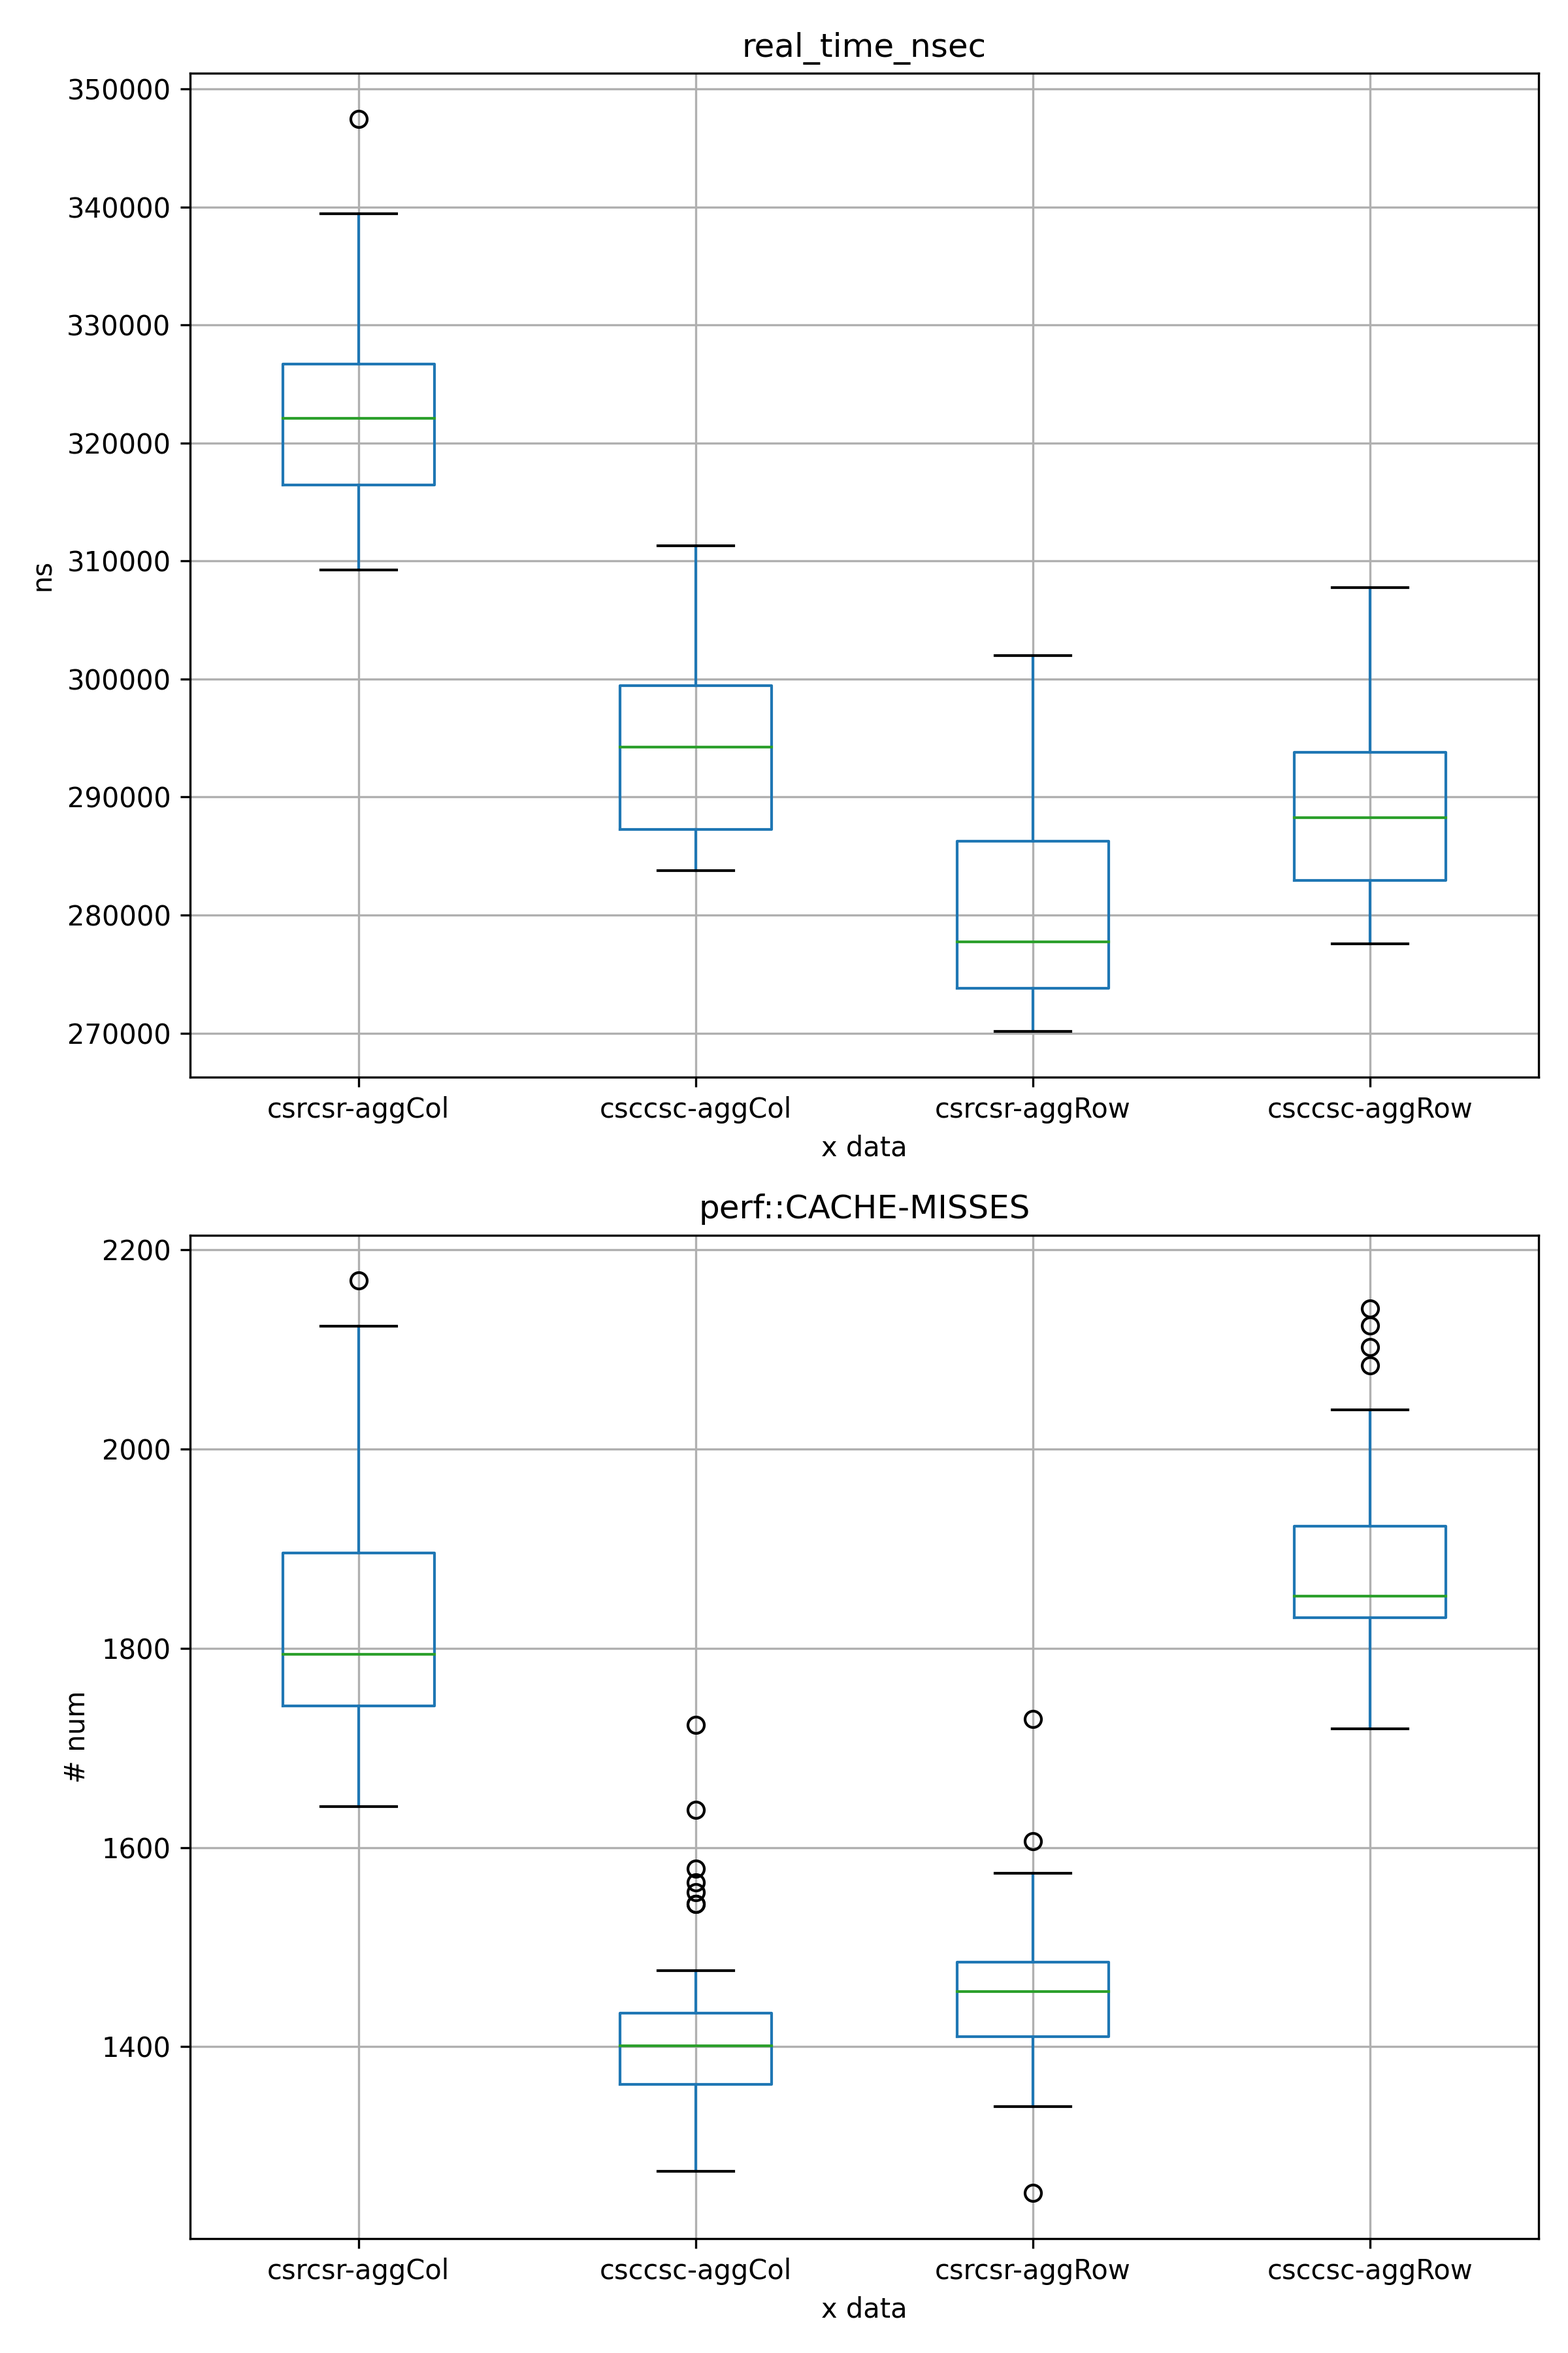
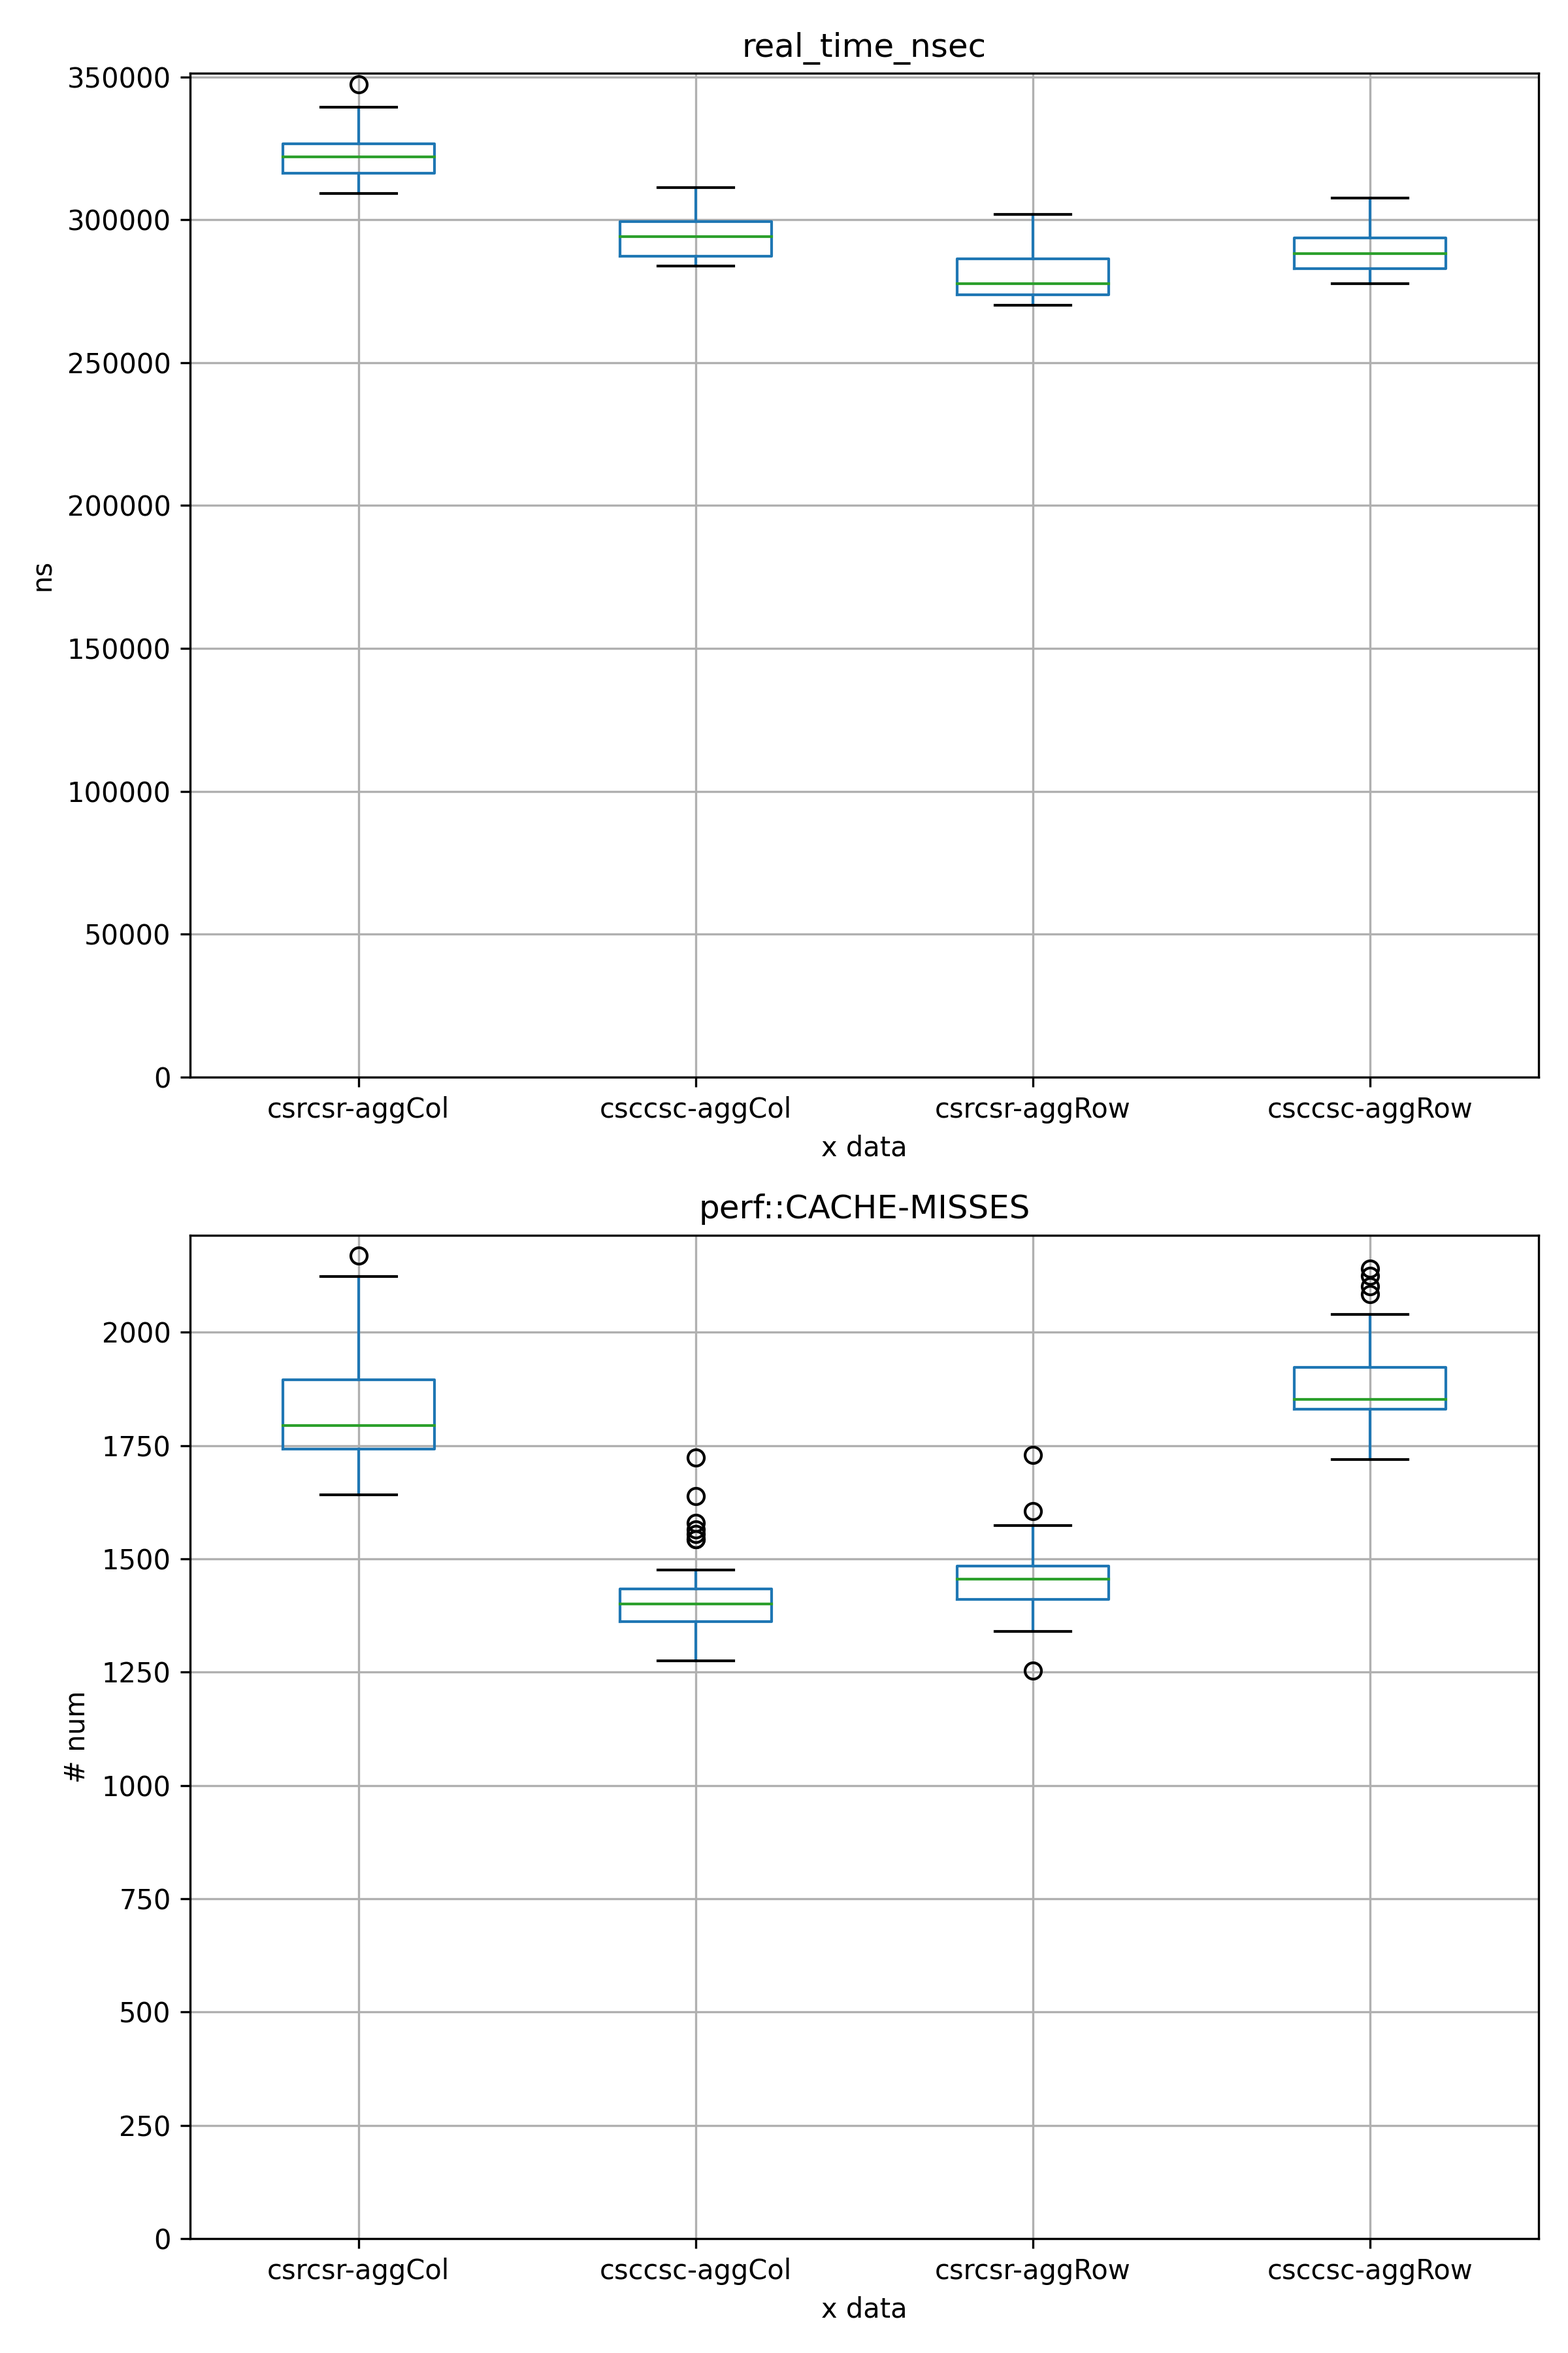
checkin

diff --git a/src/runtime/local/datastructures/CSRMatrix.h b/src/runtime/local/datastructures/CSRMatrix.h
@@ -392,15 +392,20 @@ public:
         size_t kk = 0;
         size_t numNewCols = cu - cl;
 
-        //CSRMatrix * sliced = DataObjectFactory::create<CSRMatrix>( this->numRows, numNewCols, this->maxNumNonZeros, false);
+        CSRMatrix * sliced = DataObjectFactory::create<CSRMatrix>( this->numRows, numNewCols, this->maxNumNonZeros, true);
 
         /*size_t toAllocate = maxNumNonZeros;
         if(maxNumNonZeros > (numRows*numNewCols))
             toAllocate = (numRows*numNewCols);*/
 
-        ValueType values[this->maxNumNonZeros] = {0}; 
-        size_t colIdxs[this->maxNumNonZeros] = {0};
-        size_t rowOffsets[this->numRowsAllocated] = {0};
+
+
+        //ValueType values[this->maxNumNonZeros] = {0}; 
+        //size_t colIdxs[this->maxNumNonZeros] = {0};
+        //size_t rowOffsets[this->numRowsAllocated] = {0};
+        ValueType *values   = sliced->values.get();
+        size_t *colIdxs     = sliced->colIdxs.get();
+        size_t *rowOffsets  = sliced->rowOffsets.get();
         
         for(size_t i = 0; i < this->numRowsAllocated; i++){
             std::cout << "I: " << i << std::endl;
@@ -408,7 +413,7 @@ public:
                 std::cout << "JJ: " << jj << std::endl;
                 if ((this->colIdxs.get()[jj] >= cl) && (this->colIdxs.get()[jj] < cu)) {
                     colIdxs[kk]     = this->colIdxs.get()[jj];
-                    rowOffsets[kk]  = this->values.get()[jj];
+                    values[kk]  = this->values.get()[jj];
                     kk++;
                 }
             }
@@ -417,7 +422,7 @@ public:
         }
         //CSRMatrix * sliced = DataObjectFactory::create<CSRMatrix>();
         
-        return nullptr;
+        return sliced;
     }
 
     CSRMatrix* slice(size_t rl, size_t ru, size_t cl, size_t cu) const override {

diff --git a/src/compiler/inference/SelectMatrixRepresentationsPass.cpp b/src/compiler/inference/SelectMatrixRepresentationsPass.cpp
@@ -53,7 +53,6 @@ public:
                         if(auto matTy = res.getType().dyn_cast<daphne::MatrixType>()) {
                             const double sparsity = matTy.getSparsity();
                             // TODO: set threshold by user
-
                             auto fileLoc = op->getLoc().dyn_cast<mlir::FileLineColLoc>();
                             int isOdd = fileLoc.getLine() % 2;
 
@@ -220,8 +219,9 @@ public:
 
     static bool returnsKnownProperties(Operation *op) {
         return llvm::any_of(op->getResultTypes(), [](Type rt) {
-            if(auto mt = rt.dyn_cast<daphne::MatrixType>())
-                return mt.getSparsity() != -1.0;
+            if(auto mt = rt.dyn_cast<daphne::MatrixType>()) {
+                return true; //mt.getSparsity() != -1.0;
+            }
             return false;
         });
     }

diff --git a/sketch/csc_csr/agg_graphs.py b/sketch/csc_csr/agg_graphs.py
@@ -59,7 +59,7 @@ for i, (key, value) in enumerate(values.items()):
         df = pd.DataFrame(np.array(metrics).T, columns=agg_names)
         ax1 = axes[j]
         df.boxplot(column=list(agg_names), grid=True, ax=ax1)
-        #ax1.set_ylim(ymin=0)
+        ax1.set_ylim(ymin=0)
         ax1.set_title(f'{key3}')
         ax1.set_xlabel(f'x data')
         ax1.set_ylabel(f'{unit[j]}')

diff --git a/sketch/batchsize/agg_graphs.py b/sketch/batchsize/agg_graphs.py
@@ -90,7 +90,7 @@ for j, key3 in enumerate(_moi.keys()):
         ax1.fill_between(x, lower_bound, upper_bound)
         #ax1.plot(x2, y3, color="grey")
         
-        #ax1.set_ylim(ymin=0)
+        ax1.set_ylim(ymin=0)
         ax1.set_title(f'{key3}')
         ax1.set_xlabel(f'x data')
         ax1.set_ylabel(f'{unit[j]}')
